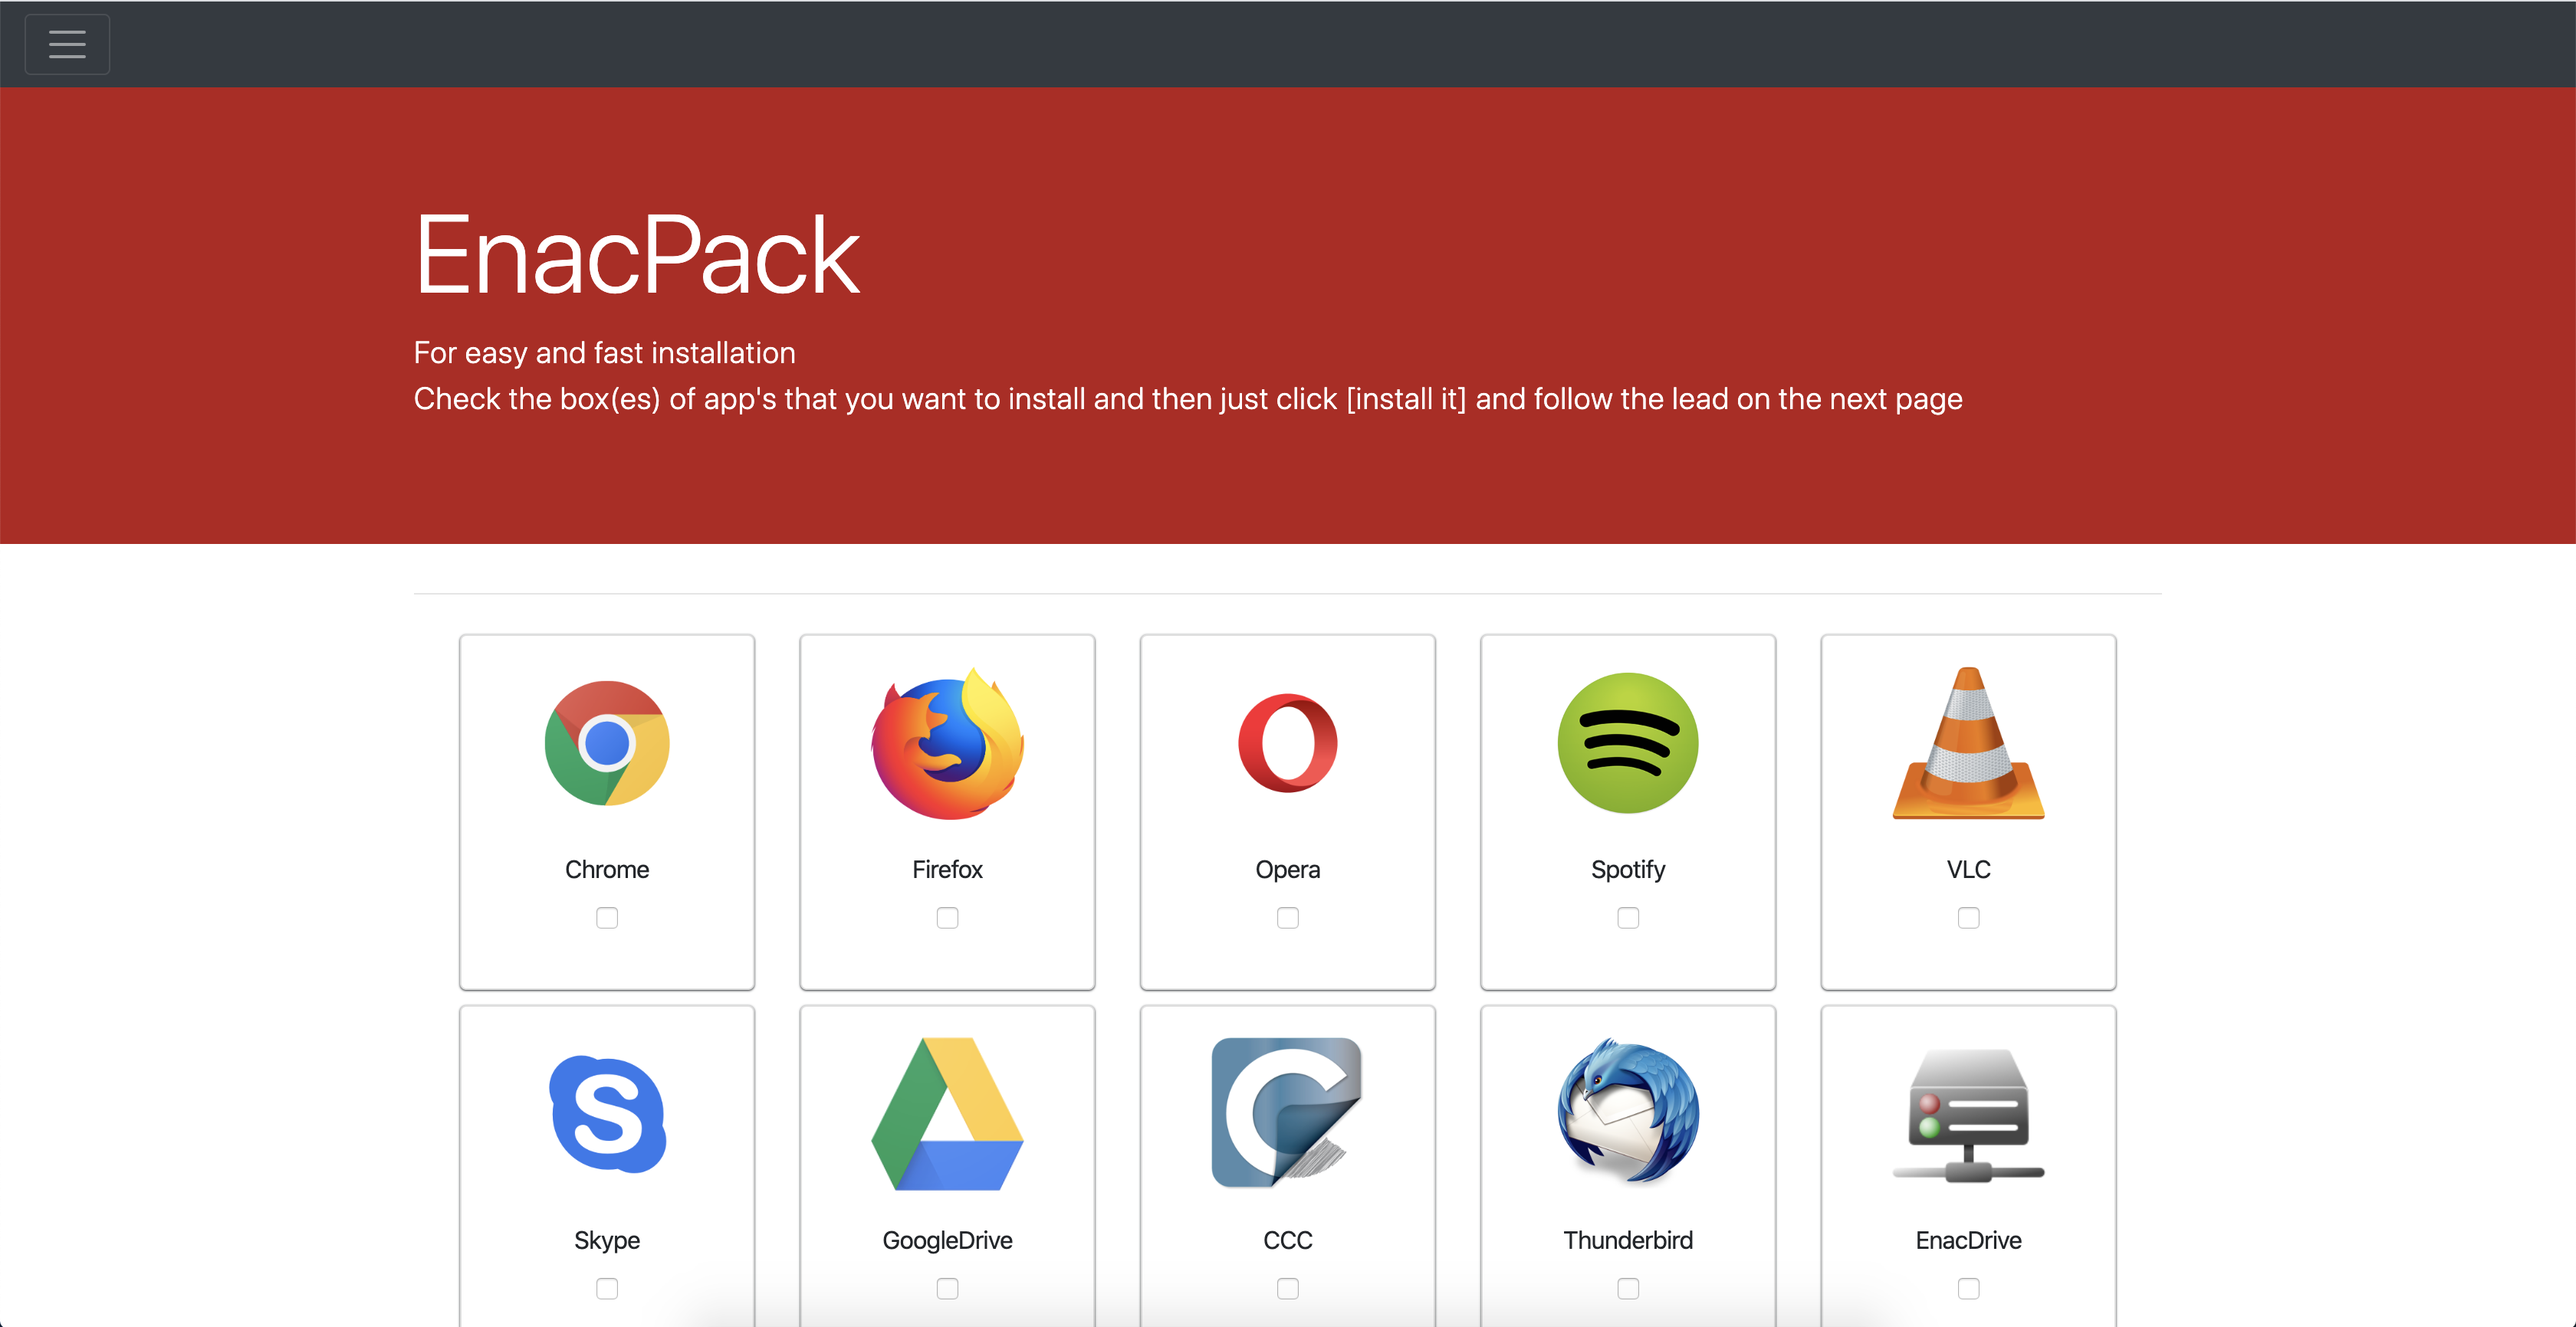
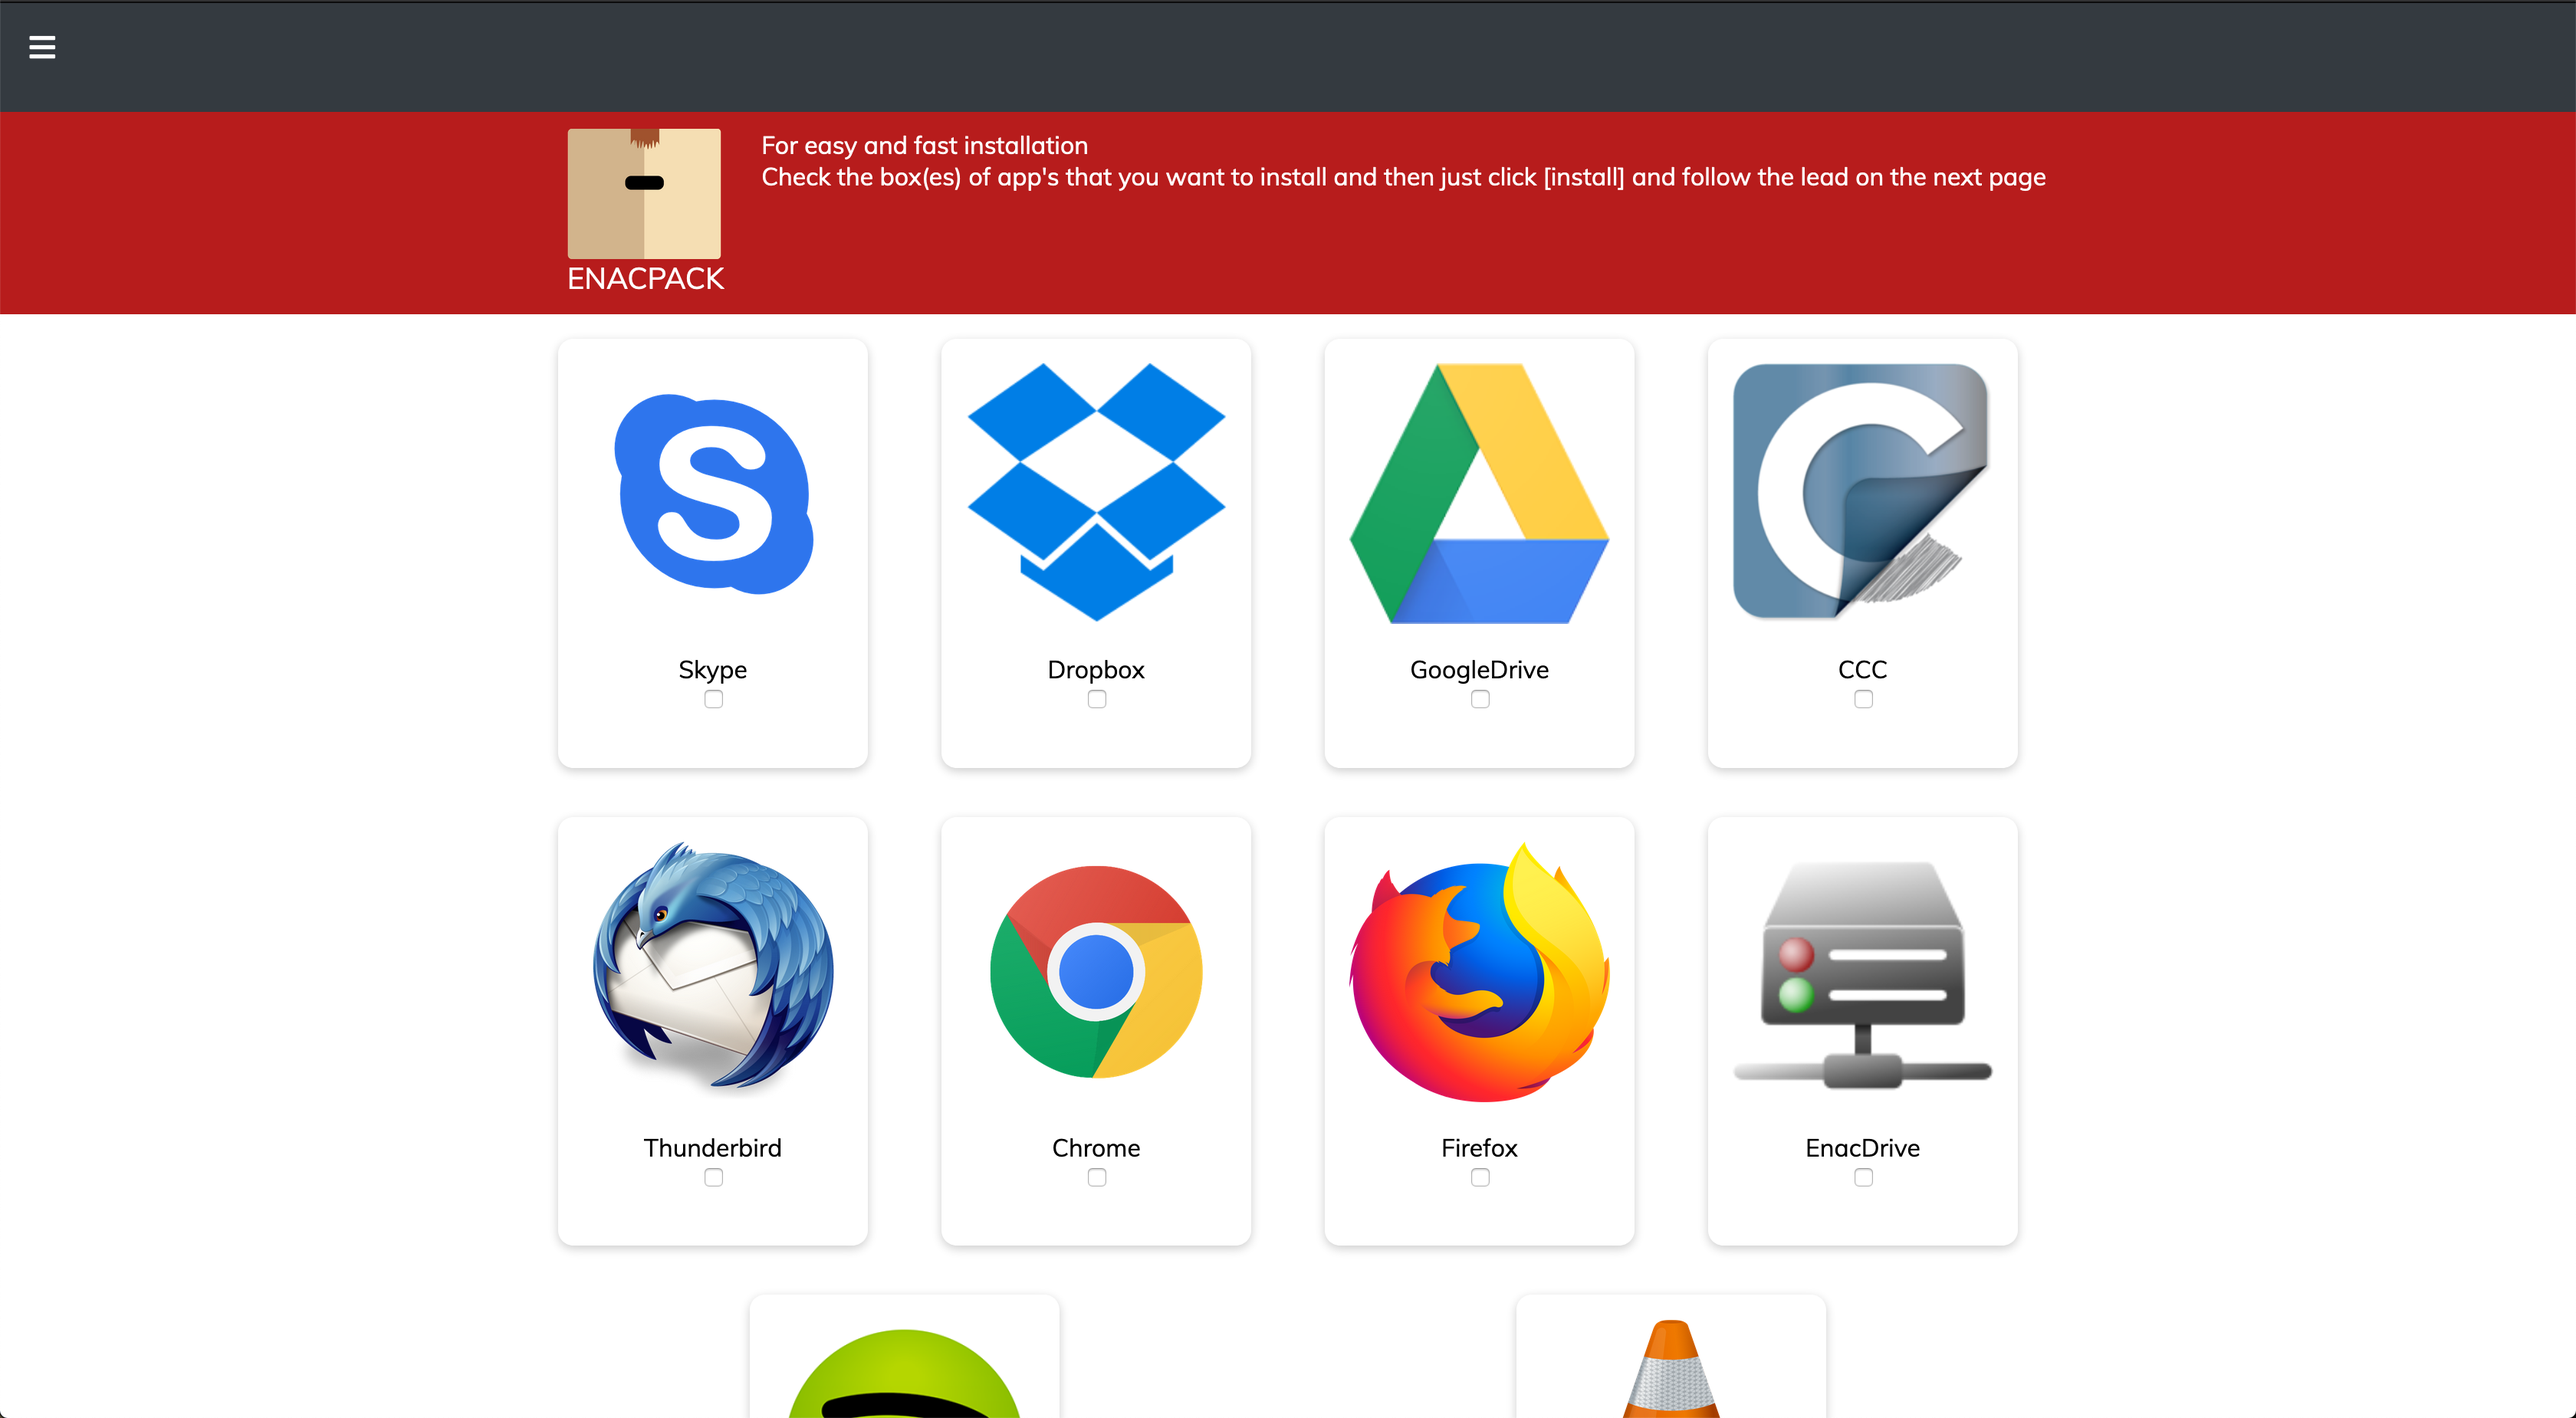
[DONE] update content + css

diff --git a/styles/style.css b/styles/style.css
@@ -126,28 +126,27 @@ i {
     display: flex;
     flex-wrap: wrap;
     justify-content: center;
+    align-content: center;
 }
 
 .card {
-    text-align: center;
-    margin: auto;  /* Magic! */
+    margin: 0 .7em;  /* Magic! */
     border-radius: 10px;
     box-shadow: 0 2px 6px rgba(0,0,0,.2);
     margin-bottom: .7em;
     text-align: center;
-    width: 20%;
-    height: 100%;
+    max-width: 20em;
 }
 
 .img-card {
     display: block;
     border-radius: 10px 10px 0 0;
-    max-width: 100%;
+    width: 100%;
+    height: 50%;
     object-fit: cover;
 }
 
 .card-content{
-    display: block;
     height: 50%;
     padding: .1em;
 }
@@ -194,15 +193,15 @@ div#education-list > p {
     width: 80%;
     background-color: #ddd;
 }
-.php {width: 45%; background-color: rgb(78, 105, 133); border-radius: 10px;}
-.js {width: 35%; background-color: rgb(78, 105, 133); border-radius: 10px;}
-.unix {width: 40%; background-color: rgb(78, 105, 133); border-radius: 10px;}
-.git {width: 35%; background-color: rgb(78, 105, 133); border-radius: 10px;}
-.docker {width: 20%; background-color: rgb(78, 105, 133); border-radius: 10px;}
-.mysql {width: 30%; background-color: rgb(78, 105, 133); border-radius: 10px;}
-.mongodb {width: 15%; background-color: rgb(78, 105, 133); border-radius: 10px;}
-.java {width: 35%; background-color: rgb(78, 105, 133); border-radius: 10px;}
-.proglanguage {width: 20%; background-color: rgb(78, 105, 133); border-radius: 10px;}
+.php {padding-right: .7em; width: 45%; background-color: rgb(78, 105, 133); border-radius: 10px;}
+.js {padding-right: .7em; width: 35%; background-color: rgb(78, 105, 133); border-radius: 10px;}
+.unix {padding-right: .7em; width: 40%; background-color: rgb(78, 105, 133); border-radius: 10px;}
+.git {padding-right: .7em; width: 35%; background-color: rgb(78, 105, 133); border-radius: 10px;}
+.docker {padding-right: .7em; width: 20%; background-color: rgb(78, 105, 133); border-radius: 10px;}
+.mysql {padding-right: .7em; width: 30%; background-color: rgb(78, 105, 133); border-radius: 10px;}
+.mongodb {padding-right: .7em; width: 15%; background-color: rgb(78, 105, 133); border-radius: 10px;}
+.java {padding-right: .7em; width: 35%; background-color: rgb(78, 105, 133); border-radius: 10px;}
+.proglanguage {padding-right: .7em; width: 20%; background-color: rgb(78, 105, 133); border-radius: 10px;}
 
 .interests-flex {
     display: flex;

diff --git a/_pages/index.html b/_pages/index.html
@@ -40,9 +40,11 @@ layout: default
                 <span class="education-list-item-year">2016 &rarr; 2020</span>
                 <span class="education-list-item-text">
                     <b>CFC</b> & Professional <b>Maturity</b> integrated<br />
-                    support level 1, 2 (Mostly MacOS, also Linux & Windows)<br />
+                    IT support level 1, 2 (Mostly MacOS, also Linux & Windows)<br />
                     scripting (Bash) <br />
+                    OOP in JAVA <br />
                     Web dev (PHP, MySQL)<br />
+                    Project Management <br />
                     at <a href="https://epfl.ch"><b>EPFL</b></a>, 
                     one of the best university in europe.
                 </span>
@@ -50,7 +52,10 @@ layout: default
             <span class="education-list-item">
                 <span class="education-list-item-year">2015 &rarr; 2016</span>
                 <span class="education-list-item-text">
-                    Pre-apprenticeship at <a href="https://www.etml.ch"><b>ETML</b></a>.
+                    Pre-apprenticeship at <a href="https://www.etml.ch"><b>ETML</b></a>.<br />
+                    Project Management<br />
+                    Web Design<br />
+                    OOP in C#<br />
                 </span>
             </span>
             <span class="education-list-item">

diff --git a/_posts/2017-01-01-enacpack.md b/_posts/2017-01-01-enacpack.md
@@ -1,6 +1,6 @@
 ---
 title: "EnacPack"
 image: '/assets/Enacpack.png'
-description: shell script generator ⚠ not online yet
-urle: 'https://github.com/richmartins/EnacPack'
+description: shell script generator
+urle: 'https://enacpack.epfl.ch/'
 ---

diff --git a/_posts/2019-01-01-linkby.md b/_posts/2019-01-01-linkby.md
@@ -1,6 +1,6 @@
 ---
 title: "LINKBY"
 image: '/assets/linkby.png'
-description: Central purchasing showcase site<br />
+description: Central purchasing showcase site
 urle: 'https://linkby.ch'
 ---

diff --git a/_posts/2020-01-01-portfolio-noe.md b/_posts/2020-01-01-portfolio-noe.md
@@ -1,0 +1,6 @@
+---
+title: "A friend's Protfolio"
+image: '/assets/Portfolio-noe.png'
+description: show a friend's portfolio website
+urle: 'https://portfolio-noe.netlify.com'
+---
